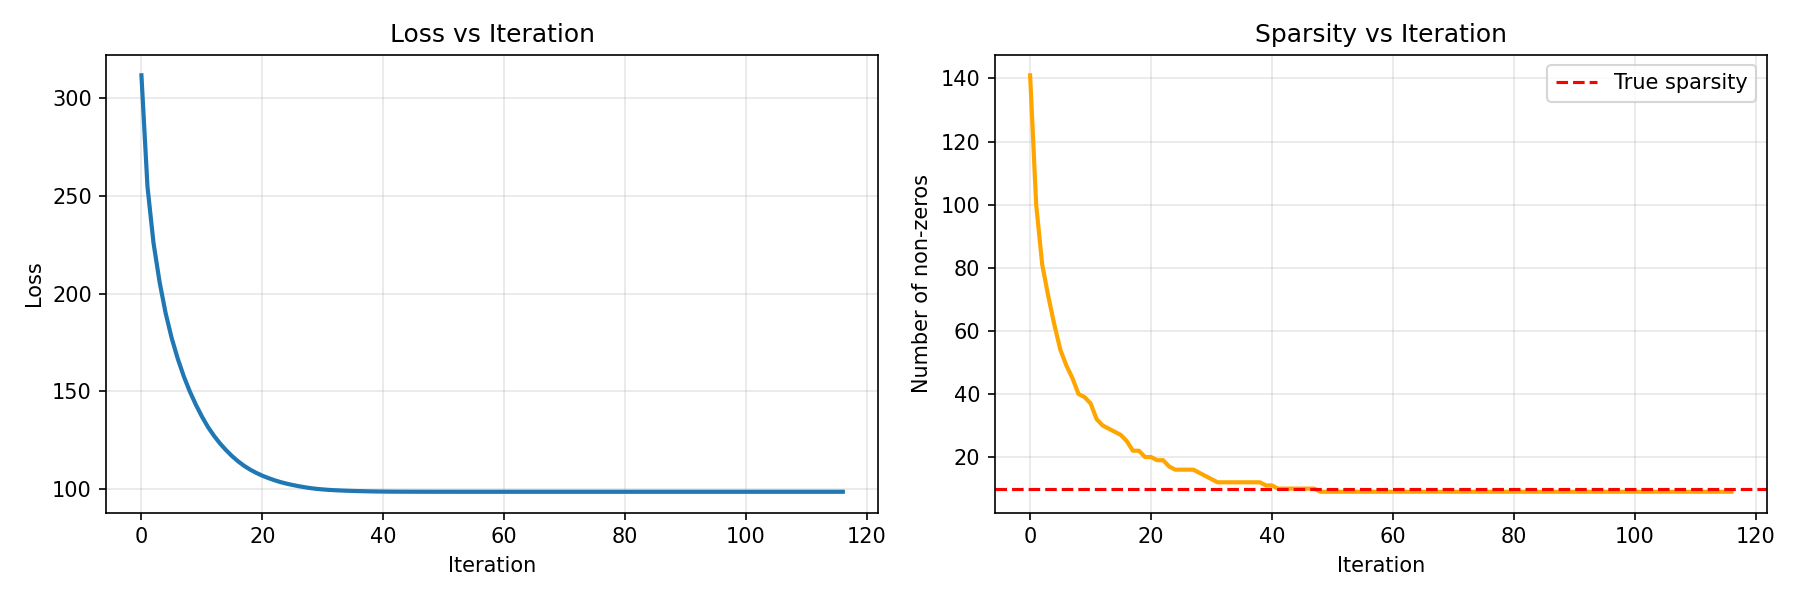
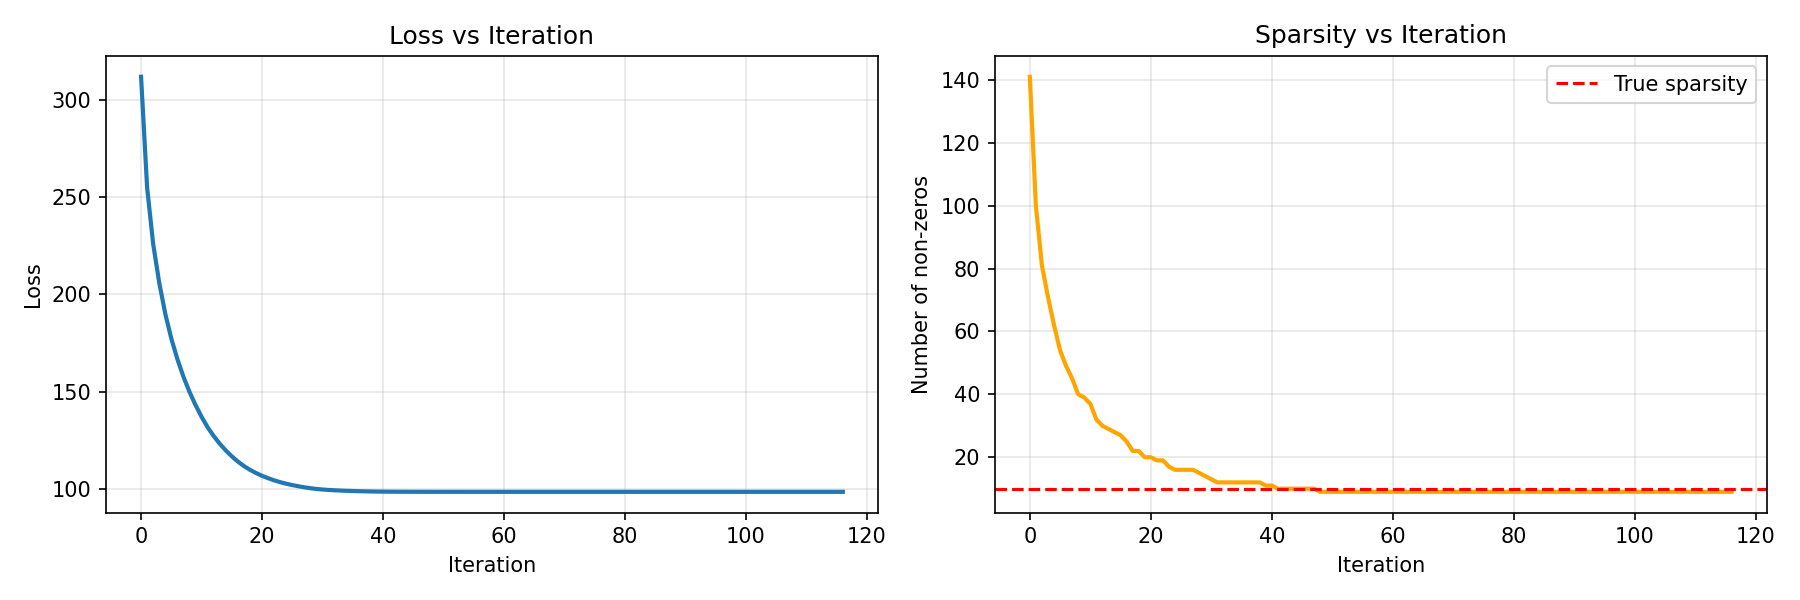
Rename package src -> l1ballpgd for a clean import path

diff --git a/scripts/benchmark.py b/scripts/benchmark.py
@@ -8,18 +8,17 @@ Two things are produced:
    We fit ``sklearn.linear_model.Lasso``, read off t, then check that our PGD
    and FISTA solvers recover the same coefficients.
 
-2. A convergence comparison of PGD vs FISTA on the objective gap f(beta_k) - f*,
-   illustrating the O(1/k) vs O(1/k^2) rates.
+2. A convergence comparison of PGD vs FISTA on the objective gap f(beta_k) - f*.
 """
 
 import matplotlib.pyplot as plt
 import numpy as np
 from sklearn.linear_model import Lasso
 
-from src.data import generate_synthetic_data
-from src.fista_constrained_lasso import fista_l1_constrained
-from src.metrics import compute_loss
-from src.pgd_constrained_lasso import pgd_l1_constrained
+from l1ballpgd.data import generate_synthetic_data
+from l1ballpgd.fista_constrained_lasso import fista_l1_constrained
+from l1ballpgd.metrics import compute_loss
+from l1ballpgd.pgd_constrained_lasso import pgd_l1_constrained
 
 OUT_DIR = "outputs"
 

diff --git a/scripts/run_synth.py b/scripts/run_synth.py
@@ -1,9 +1,9 @@
 import matplotlib.pyplot as plt
 import numpy as np
 
-from src.data import generate_synthetic_data
-from src.metrics import compute_error
-from src.pgd_constrained_lasso import pgd_l1_constrained
+from l1ballpgd.data import generate_synthetic_data
+from l1ballpgd.metrics import compute_error
+from l1ballpgd.pgd_constrained_lasso import pgd_l1_constrained
 
 # Generate data
 n, p = 100, 200

diff --git a/tests/test_fista.py b/tests/test_fista.py
@@ -1,8 +1,8 @@
 import numpy as np
 
-from src.data import generate_synthetic_data
-from src.fista_constrained_lasso import fista_l1_constrained
-from src.pgd_constrained_lasso import pgd_l1_constrained
+from l1ballpgd.data import generate_synthetic_data
+from l1ballpgd.fista_constrained_lasso import fista_l1_constrained
+from l1ballpgd.pgd_constrained_lasso import pgd_l1_constrained
 
 
 def test_fista_decreases_loss():

diff --git a/tests/test_pgd.py b/tests/test_pgd.py
@@ -1,7 +1,7 @@
 import numpy as np
 
-from src.data import generate_synthetic_data
-from src.pgd_constrained_lasso import pgd_l1_constrained
+from l1ballpgd.data import generate_synthetic_data
+from l1ballpgd.pgd_constrained_lasso import pgd_l1_constrained
 
 
 def test_pgd_convergence():

diff --git a/tests/test_l1_projection.py b/tests/test_l1_projection.py
@@ -1,6 +1,6 @@
 import numpy as np
 
-from src.l1_projection import project_l1_ball
+from l1ballpgd.l1_projection import project_l1_ball
 
 
 def test_projection_identity():

diff --git a/README.md b/README.md
@@ -122,7 +122,7 @@ pip install -e ".[bench]"        # + scikit-learn for the benchmark
 
 ```python
 import numpy as np
-from src.fista_constrained_lasso import fista_l1_constrained
+from l1ballpgd.fista_constrained_lasso import fista_l1_constrained
 
 X = np.random.default_rng(0).standard_normal((100, 200))
 y = X @ np.r_[np.ones(10), np.zeros(190)] + 0.1 * np.random.default_rng(1).standard_normal(100)
@@ -142,7 +142,7 @@ python scripts/benchmark.py      # PGD vs FISTA + scikit-learn validation
 ## Project layout
 
 ```text
-src/
+l1ballpgd/
   l1_projection.py            exact Euclidean projection onto the L1 ball
   pgd_constrained_lasso.py    projected gradient descent
   fista_constrained_lasso.py  accelerated (FISTA) variant